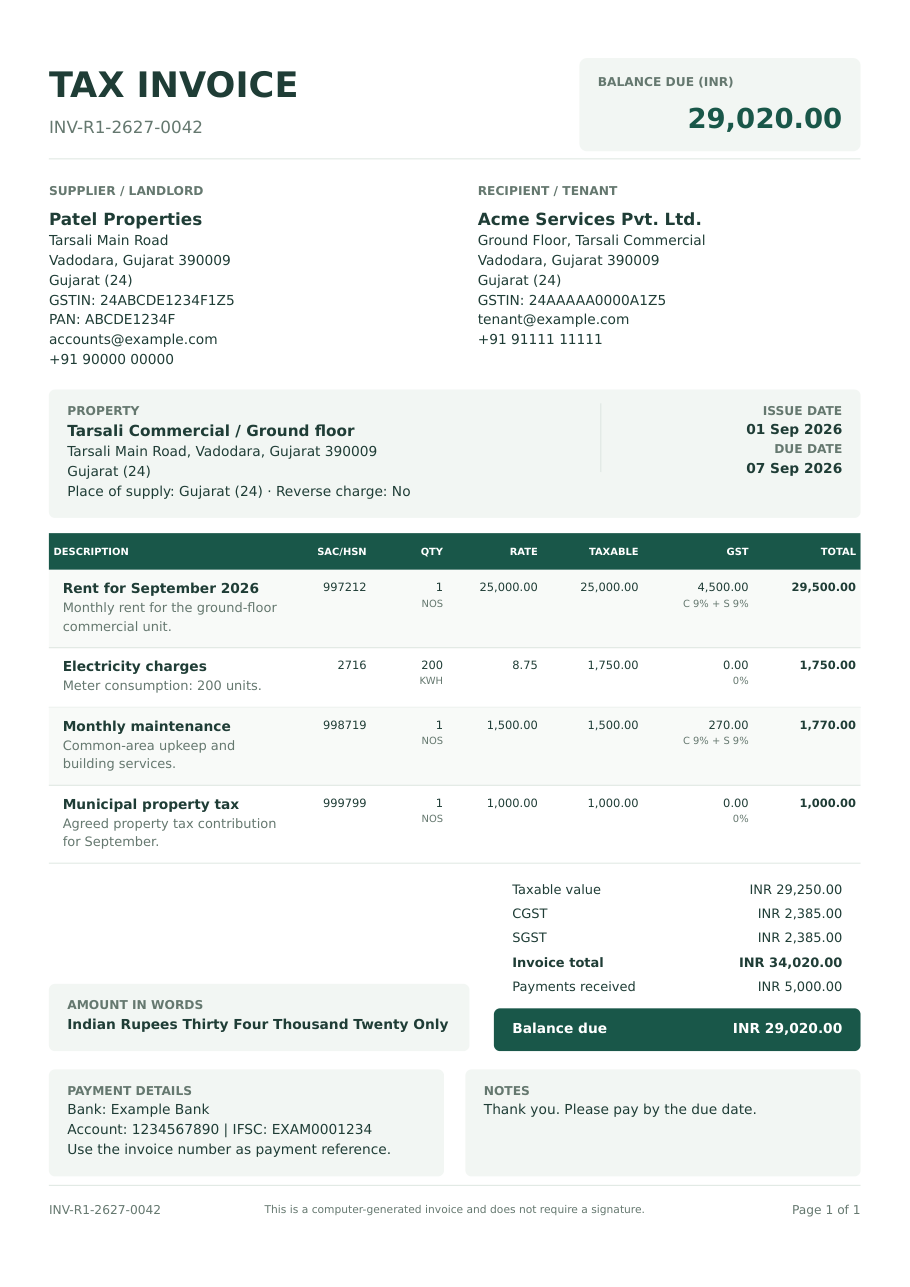
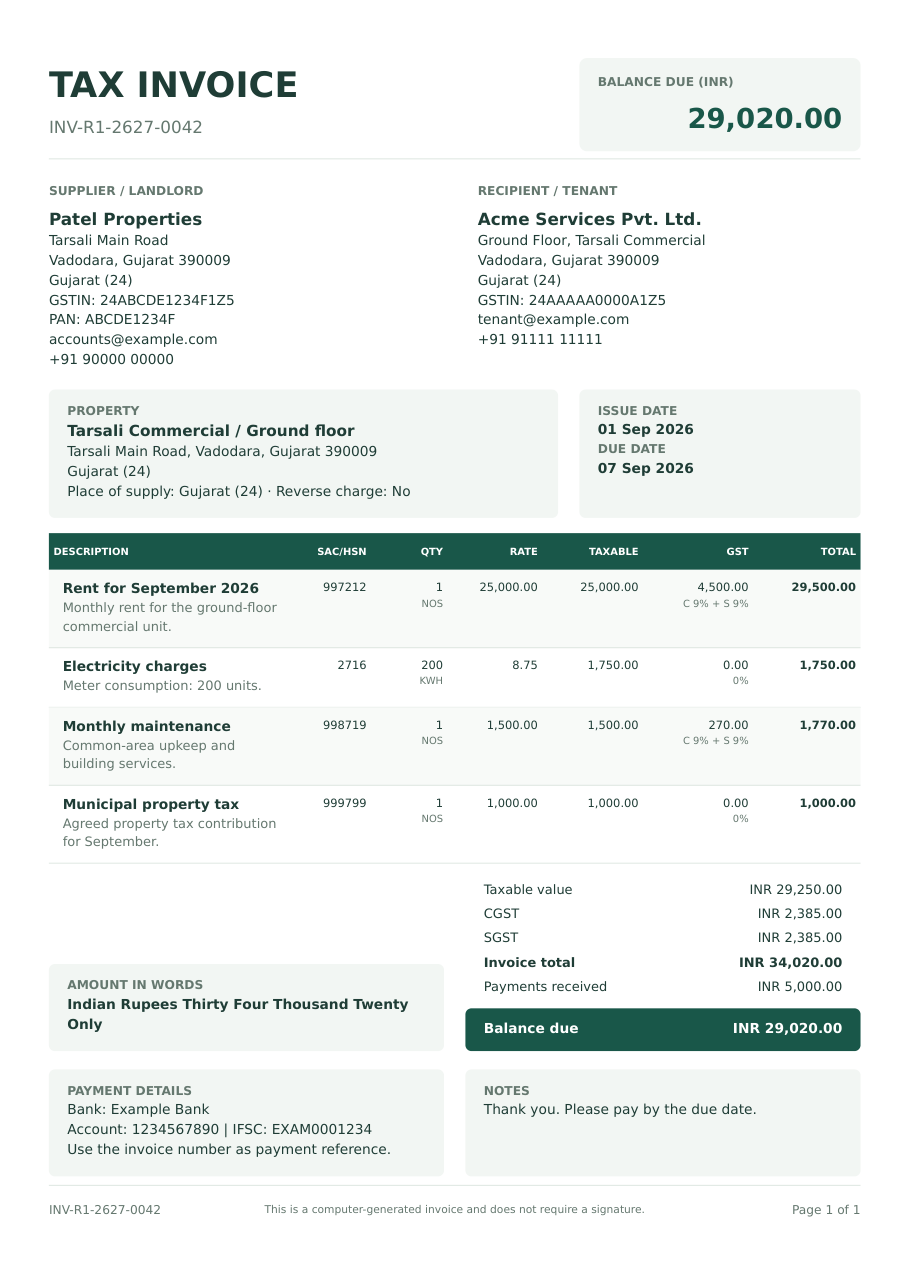
Align summary with notes grid and box invoice dates separately
- Amount in words and totals use the same two-column grid as payment
  details and notes
- Issue and due dates get their own box beside the property, aligned
  with the balance card

Changed region(s): [[0.0615, 0.6838, 0.6769, 0.8392], [0.6462, 0.3108, 0.7692, 0.373], [0.8308, 0.3108, 0.9231, 0.373]]

diff --git a/server/pdf.js b/server/pdf.js
@@ -347,9 +347,12 @@ export function makePdf(invoice) {
         }
       }
       y += 12;
-      // An optional aside is drawn beside the first chunk of a section.
+      // Two-column grid shared by side-by-side boxes and the summary row.
+      const gap = 14,
+        half = (width - gap) / 2;
+      // An optional aside box is drawn beside the first chunk of a section.
       const section = (heading, parts, aside) => {
-        const asideW = aside ? aside.w + 16 : 0;
+        const asideW = aside ? aside.w + gap : 0;
         const lines = stack(parts, width - 24 - asideW);
         let index = 0,
           continuation = false;
@@ -367,14 +370,21 @@ export function makePdf(invoice) {
             end++;
           }
           h = Math.max(h, minH);
-          doc.roundedRect(left, start, width, h + 10, 4).fill(COLORS.pale);
+          doc
+            .roundedRect(left, start, width - asideW, h + 10, 4)
+            .fill(COLORS.pale);
           label(
             heading + (continuation ? " (CONTINUED)" : ""),
             left + 12,
             start + 9,
             width - 24 - asideW,
           );
-          if (aside && !continuation) aside.draw(right - 12 - aside.w, start);
+          if (aside && !continuation) {
+            doc
+              .roundedRect(right - aside.w, start, aside.w, h + 10, 4)
+              .fill(COLORS.pale);
+            aside.draw(right - aside.w + 12, start);
+          }
           y = start + 21;
           drawLines(lines.slice(index, end), left + 12, width - 24 - asideW);
           y = start + h + 20;
@@ -390,8 +400,7 @@ export function makePdf(invoice) {
         if (!blocks.length) return;
         if (blocks.length === 1)
           return section(blocks[0].heading, blocks[0].parts);
-        const gap = 14,
-          w = (width - gap * (blocks.length - 1)) / blocks.length;
+        const w = (width - gap * (blocks.length - 1)) / blocks.length;
         const cols = blocks.map((block, i) => ({
           ...block,
           x: left + i * (w + gap),
@@ -436,7 +445,6 @@ export function makePdf(invoice) {
           }
         }
       };
-      const datesW = 150;
       section(
         "PROPERTY",
         [
@@ -455,30 +463,16 @@ export function makePdf(invoice) {
           },
         ],
         {
-          w: datesW,
+          w: 184,
           h: 54,
-          draw: (x, top) => {
-            doc
-              .strokeColor(COLORS.line)
-              .lineWidth(0.6)
-              .moveTo(x - 8, top + 9)
-              .lineTo(x - 8, top + 54)
-              .stroke();
+          draw: (x, top) =>
             [
               ["ISSUE DATE", invoice.issue_date, top + 9],
               ["DUE DATE", invoice.due_date, top + 34],
             ].forEach(([title, value, at]) => {
-              text(title, x, at, datesW, style(8, true, COLORS.muted), "right");
-              text(
-                displayDate(value),
-                x,
-                at + 12,
-                datesW,
-                style(9, true),
-                "right",
-              );
-            });
-          },
+              label(title, x, at, 160);
+              text(displayDate(value), x, at + 12, 160, style(9, true));
+            }),
         },
       );
       // Fixed-width table columns and repeated header on each page of items.
@@ -635,9 +629,9 @@ export function makePdf(invoice) {
       // Amount in words is bottom-aligned with the balance box.
       const rowHeight = 16,
         balanceHeight = 28;
-      const totalW = 240,
+      const totalW = half,
         totalX = right - totalW;
-      const wordsW = totalX - left - 16;
+      const wordsW = half;
       const words = wrap(
         amountInWords(invoice.total_cents),
         wordsW - 24,

diff --git a/web/main.jsx b/web/main.jsx
@@ -1320,25 +1320,29 @@ function InvoiceDetail({ id, onClose, onChange, onEdit, system, notify }) {
                   )}
                 </div>
               </div>
-              <div class="paper-dates">
-                <span>
-                  Place of supply
-                  <b>
-                    {inv.place_of_supply || "—"}
-                    {inv.place_of_supply_code
-                      ? ` (${inv.place_of_supply_code})`
-                      : ""}
-                  </b>
-                </span>
-                <span>
-                  Reverse charge <b>{inv.reverse_charge ? "Yes" : "No"}</b>
-                </span>
-                <span class="date">
-                  Issued <b>{dateLabel(inv.issue_date)}</b>
-                </span>
-                <span class="date">
-                  Due <b>{dateLabel(inv.due_date)}</b>
-                </span>
+              <div class="paper-meta">
+                <div class="paper-dates">
+                  <span>
+                    Place of supply
+                    <b>
+                      {inv.place_of_supply || "—"}
+                      {inv.place_of_supply_code
+                        ? ` (${inv.place_of_supply_code})`
+                        : ""}
+                    </b>
+                  </span>
+                  <span>
+                    Reverse charge <b>{inv.reverse_charge ? "Yes" : "No"}</b>
+                  </span>
+                </div>
+                <div class="paper-dates">
+                  <span>
+                    Issued <b>{dateLabel(inv.issue_date)}</b>
+                  </span>
+                  <span>
+                    Due <b>{dateLabel(inv.due_date)}</b>
+                  </span>
+                </div>
               </div>
               <div class="table-wrap">
                 <table class="paper-items">

diff --git a/web/style.css b/web/style.css
@@ -1179,6 +1179,11 @@ code {
 .paper-parties .eyebrow {
   font-size: 9px;
 }
+.paper-meta {
+  display: flex;
+  gap: 20px;
+  margin-bottom: 18px;
+}
 .paper-dates {
   display: flex;
   flex-wrap: wrap;
@@ -1186,14 +1191,10 @@ code {
   background: #f6f8f2;
   padding: 15px;
   font-size: 10px;
-  margin-bottom: 18px;
   color: #89997b;
 }
-.paper-dates .date {
-  text-align: right;
-}
-.paper-dates span:not(.date) + .date {
-  margin-left: auto;
+.paper-dates:first-child {
+  flex: 1;
 }
 .paper-dates b {
   display: block;
@@ -1236,7 +1237,7 @@ code {
   display: flex;
   flex-direction: column;
   gap: 12px;
-  max-width: 300px;
+  max-width: calc(50% - 10px);
   margin: 25px 0 25px auto;
 }
 .paper-total span {
@@ -1793,6 +1794,10 @@ code {
   }
   .paper-top .right {
     text-align: left;
+  }
+  .paper-meta {
+    flex-direction: column;
+    gap: 12px;
   }
   .paper-dates {
     gap: 14px;
